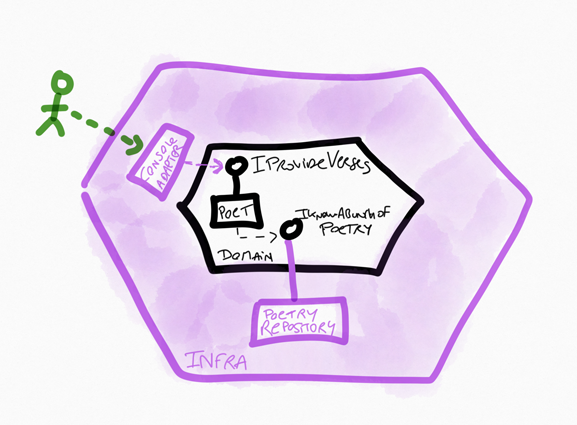
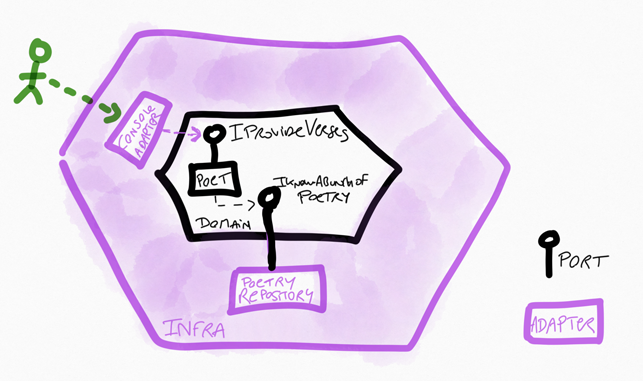
Add legend to the hexagonal architecture diagram

diff --git a/Readme.md b/Readme.md
@@ -67,7 +67,7 @@ Here is a typical method from this Adapter:
 
 ## The Hexagon
 
-The hexagon must expose one or multiple ports (represented as lollipops in the diagram below). Here, the [__Poet__](https://github.com/tpierrain/hexagonalThis/blob/confCallWithAlistair/HexagonalThis.Domain/Poet.cs#L13) hexagon implements the __IProvideVerses__ port and use the __IKnowABunchOfPoetry__ port to ask an external service some poetry to work with.
+The hexagon must expose one or multiple ports (represented as lollipops in the diagram below). Here, the [__Poet__](https://github.com/tpierrain/hexagonalThis/blob/confCallWithAlistair/HexagonalThis.Domain/Poet.cs#L13) "hexagon" implements the __IProvideVerses__ port and use the __IKnowABunchOfPoetry__ port to ask an external service some poetry to work with.
 
 ### __All the external {tests/users/systems} use one of the "I need to enter the hexagon" Port/Adapter__ (here we have only one: the ConsoleAdapter).
 
